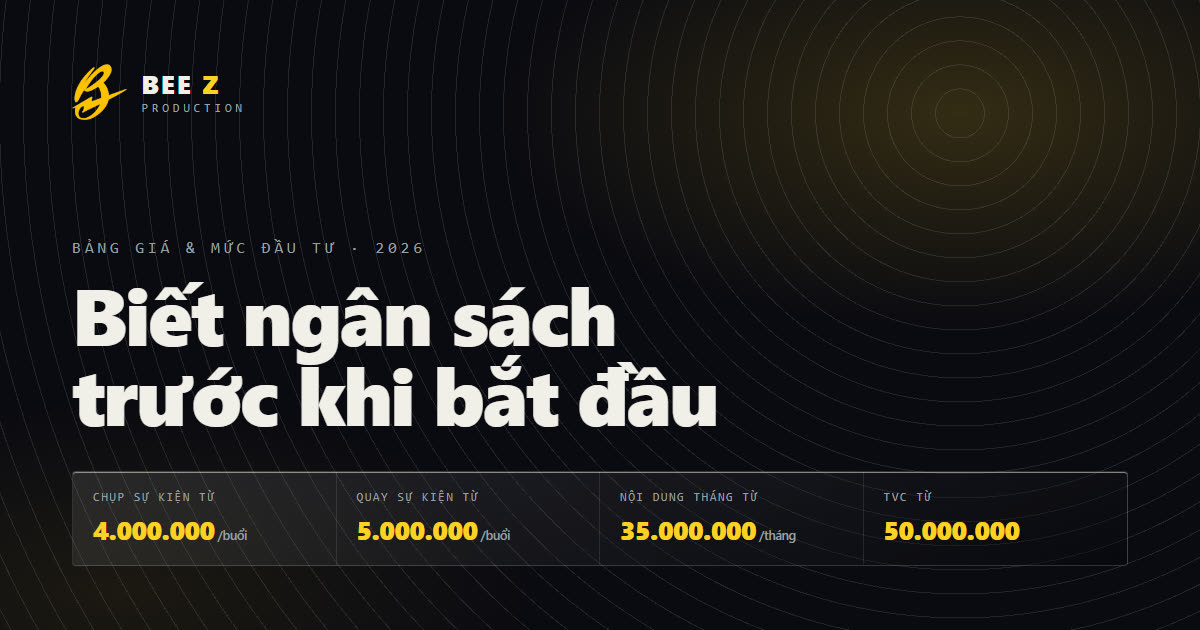
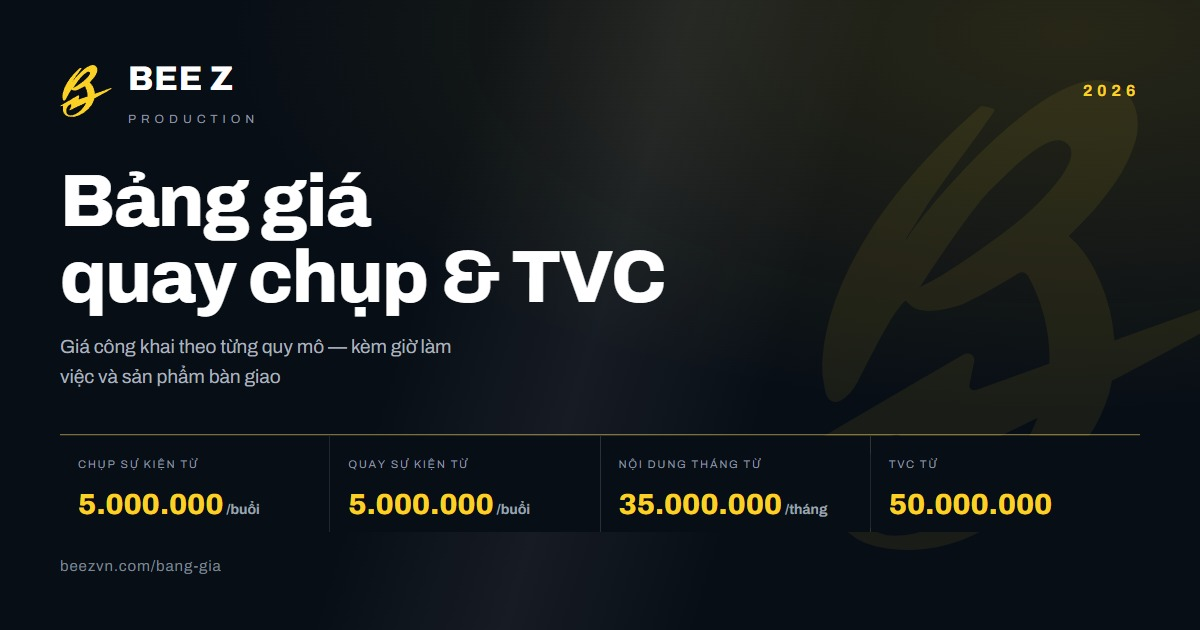
fix(bang-gia): thẻ chia sẻ hiện giá CŨ — sửa mô tả và dựng lại ảnh
Hoàn gửi link qua Zalo thì thẻ xem trước vẫn hiện giá cũ. Hai nguyên nhân:

1. BỐN chỗ khai mô tả còn ghi "chụp sự kiện từ 4.000.000đ/buổi" trong khi trang
   đã đổi thành 5.000.000đ: <meta name="description">, og:description,
   twitter:description, và trường "description" trong JSON-LD. Khách nhìn thẻ
   TRƯỚC cả khi mở link, và Google cũng đọc đúng dòng này.
   (Cẩn thận: chuỗi 4.000.000 còn dùng hợp lệ ở mục Flycam — chỉ thay đúng cụm
   "chụp sự kiện từ 4.000.000đ/buổi", đã kiểm data-vnd="4000000" không đổi.)

2. Ảnh og-bang-gia.jpg vẽ cứng bốn mốc giá, trong đó chụp 4.000.000.

DỰNG LẠI ẢNH ĐỂ KHÔNG BAO GIỜ CŨ NỮA: script mở chính trang thật, ĐỌC bốn mốc
giá từ DOM rồi vẽ thẻ ngay bên trong trang đó — nên không gõ tay số nào, chữ
dùng đúng font Archivo đã nhúng, màu lấy đúng biến CSS. Lần sau đổi giá chỉ cần
chạy lại là ảnh tự đúng. Thêm dấu hiệu Bee Z (đọc từ public/logo.svg) vì ở cỡ
ảnh xem trước nhỏ xíu thì hình logo là thứ khách nhận ra trước cả chữ.

Ảnh xuất đúng 1200x630 khớp với og:image:width/height trang đang khai — bản đầu
tao dựng ở 2x ra 2400x1260, lệch với lời khai.

CÙNG LÚC lấy bản nguồn mới nhất: session bảng giá vừa viết lại khối ghi chú đầu
file (bỏ bảng liệt kê giá chép tay đã mục, thay bằng hướng dẫn sửa giá). Đã đối
chiếu: 36 dòng khác nhau, KHÔNG dòng nào đụng markup.

Kiểm lại sau khi sửa: 167 phép trong trang vẫn qua, tắt JS vẫn đủ vạch gạch
chân, bản in vẫn 13 trang mỗi số một vạch, 65 cỡ màn không tràn ngang.

diff --git a/front-end/public/bang-gia/index.html b/front-end/public/bang-gia/index.html
@@ -4,7 +4,7 @@
 <meta charset="utf-8">
 <meta name="viewport" content="width=device-width,initial-scale=1,viewport-fit=cover">
 <title>Bảng giá 2026 — Bee Z Production</title>
-<meta name="description" content="Bảng giá công khai của Bee Z Production: chụp sự kiện từ 4.000.000đ/buổi, quay sự kiện từ 5.000.000đ/buổi, nội dung hằng tháng từ 35.000.000đ, TVC từ 50.000.000đ. Mỗi mức giá ghi rõ giờ làm việc và sản phẩm bàn giao.">
+<meta name="description" content="Bảng giá công khai của Bee Z Production: chụp sự kiện từ 5.000.000đ/buổi, quay sự kiện từ 5.000.000đ/buổi, nội dung hằng tháng từ 35.000.000đ, TVC từ 50.000.000đ. Mỗi mức giá ghi rõ giờ làm việc và sản phẩm bàn giao.">
 <link rel="canonical" href="https://www.beezvn.com/bang-gia">
 <meta name="theme-color" content="#0b0a11">
 <meta name="robots" content="index,follow,max-image-preview:large">
@@ -15,7 +15,7 @@
 <meta property="og:locale" content="vi_VN">
 <meta property="og:url" content="https://www.beezvn.com/bang-gia">
 <meta property="og:title" content="Bảng giá 2026 — Bee Z Production">
-<meta property="og:description" content="Bảng giá công khai của Bee Z Production: chụp sự kiện từ 4.000.000đ/buổi, quay sự kiện từ 5.000.000đ/buổi, nội dung hằng tháng từ 35.000.000đ, TVC từ 50.000.000đ. Mỗi mức giá ghi rõ giờ làm việc và sản phẩm bàn giao.">
+<meta property="og:description" content="Bảng giá công khai của Bee Z Production: chụp sự kiện từ 5.000.000đ/buổi, quay sự kiện từ 5.000.000đ/buổi, nội dung hằng tháng từ 35.000.000đ, TVC từ 50.000.000đ. Mỗi mức giá ghi rõ giờ làm việc và sản phẩm bàn giao.">
 <meta property="og:image" content="https://www.beezvn.com/bang-gia/og-bang-gia.jpg">
 <meta property="og:image:type" content="image/jpeg">
 <meta property="og:image:width" content="1200">
@@ -24,13 +24,13 @@
 
 <meta name="twitter:card" content="summary_large_image">
 <meta name="twitter:title" content="Bảng giá 2026 — Bee Z Production">
-<meta name="twitter:description" content="Bảng giá công khai của Bee Z Production: chụp sự kiện từ 4.000.000đ/buổi, quay sự kiện từ 5.000.000đ/buổi, nội dung hằng tháng từ 35.000.000đ, TVC từ 50.000.000đ. Mỗi mức giá ghi rõ giờ làm việc và sản phẩm bàn giao.">
+<meta name="twitter:description" content="Bảng giá công khai của Bee Z Production: chụp sự kiện từ 5.000.000đ/buổi, quay sự kiện từ 5.000.000đ/buổi, nội dung hằng tháng từ 35.000.000đ, TVC từ 50.000.000đ. Mỗi mức giá ghi rõ giờ làm việc và sản phẩm bàn giao.">
 <meta name="twitter:image" content="https://www.beezvn.com/bang-gia/og-bang-gia.jpg">
 
 <script type="application/ld+json">
 {"@context":"https://schema.org","@type":"WebPage",
  "name":"Bảng giá 2026 — Bee Z Production",
- "description":"Bảng giá công khai của Bee Z Production: chụp sự kiện từ 4.000.000đ/buổi, quay sự kiện từ 5.000.000đ/buổi, nội dung hằng tháng từ 35.000.000đ, TVC từ 50.000.000đ. Mỗi mức giá ghi rõ giờ làm việc và sản phẩm bàn giao.",
+ "description":"Bảng giá công khai của Bee Z Production: chụp sự kiện từ 5.000.000đ/buổi, quay sự kiện từ 5.000.000đ/buổi, nội dung hằng tháng từ 35.000.000đ, TVC từ 50.000.000đ. Mỗi mức giá ghi rõ giờ làm việc và sản phẩm bàn giao.",
  "url":"https://www.beezvn.com/bang-gia",
  "inLanguage":"vi-VN",
  "isPartOf":{"@type":"WebSite","name":"Bee Z Production","url":"https://www.beezvn.com"},
@@ -43,7 +43,7 @@
 <body>
 <style>
 /* ============================================================
-   BẢN B — "THẺ LỚN" · Bảng giá Bee Z Production
+   BẢNG GIÁ CHÍNH · Bee Z Production — bố cục "thẻ lớn"
    Mỗi nhóm dịch vụ = một TẤM BÌA: nền hoa văn CSS riêng (sắc nét)
    + tấm KÍNH phủ lên (nhìn xuyên thấy hoa văn) + GIÁ khổng lồ.
    Chi tiết dài (bảng, quy ước, điều khoản) gập trong <details>.
@@ -51,18 +51,28 @@
    QUY TẮC VÀNG #fcd125: chỉ dùng cho con số giá, nút CTA, gạch dưới số,
    viền nhãn nhấn. Nhãn/tiêu đề/bullet dùng trắng–xám.
    ------------------------------------------------------------
-   BẢNG THAY GIÁ — sửa giá thì mở đúng danh sách này:
-   · Chụp buổi 4.000.000 : ma trận chụp · mốc neo hero · số lớn tấm 01 · công thức khai trương
-   · Chụp buổi 7.500.000 : ma trận chụp · rail tấm 01 · công thức combo B1, B2
-   · Chụp buổi 11.000.000: ma trận chụp · công thức combo B3
-   · Chụp ngày 6/11/16tr : ma trận chụp · rail tấm 01 · công thức combo N1, N2, N3
-   · Quay buổi 5.000.000 : ma trận quay · mốc neo hero · số lớn tấm 02 · combo B1 · khai trương
-   · Quay buổi 9.500.000 : ma trận quay · rail tấm 02 · công thức combo B2
-   · Quay buổi 14.000.000: ma trận quay · công thức combo B3
-   · Quay ngày 7/13,5/20 : ma trận quay · rail tấm 02 · công thức combo N1, N2, N3
-   · Recap 2.500.000/máy : cảnh báo tấm 02 · công thức cả 6 combo · dịch vụ lẻ
-   · Social 35/65/94,5tr : 3 thẻ mục 05 · mốc neo hero
-   · TVC 50/120/200tr    : 3 thẻ bậc mục 06 · mốc neo hero
+   SỬA GIÁ — đọc trước khi đổi bất kỳ con số nào:
+
+   1. Mỗi số tiền nằm trong một thẻ có data-vnd (đơn vị đồng, không dấu
+      chấm). Đổi giá là đổi CẢ HAI: chữ hiển thị VÀ data-vnd.
+
+   2. Một giá thường xuất hiện ở nhiều chỗ. ĐỪNG tin danh sách chép tay —
+      đúng chỗ này từng có một bảng liệt kê như thế và nó mục sau vài lần
+      đổi giá, còn nhắc cả gói đã bỏ. Muốn biết một giá nằm ở đâu thì hỏi
+      thẳng file:
+         grep -o 'data-vn[d]="[0-9]*"' bang-gia-chinh.html | sort | uniq -c | sort -rn
+      (viết [d] để chính dòng lệnh này không bị đếm lẫn vào kết quả)
+      (Ảnh chụp 22/08/2026: 5.000.000 nằm 8 chỗ, 7.000.000 nằm 6 chỗ.
+      Đổi hụt một chỗ là trang tự mâu thuẫn với chính nó.)
+
+   3. GIÁ CHỤP ĐÃ GỒM CHI PHÍ LÀM ẢNH — 1.000.000đ máy đầu, 700.000đ mỗi
+      máy tiếp theo. Nên giá chụp KHÔNG nhân thẳng theo số máy như giá quay:
+      muốn kiểm phải bóc phần làm ảnh ra rồi mới nhân phần công chụp.
+
+   4. Sửa xong mở trang với ?check=beez2026 rồi xem Console. Script tự đọc
+      số THẲNG TỪ TRANG, cộng lại giá lẻ từng combo và đối chiếu % giảm đã
+      in ra. Đừng chép cứng giá vào script kiểm — bản đầu chép cứng nên cứ
+      đổi giá là nó báo sai, mất công tưởng trang hỏng.
    ------------------------------------------------------------
    ẢNH PORTFOLIO: Hoàn chốt KHÔNG dùng (2026-08-13, "cho đỡ rối").
    Trang chạy thuần chữ + số. Nếu sau này muốn thêm, chèn thẻ <img> nhúng
